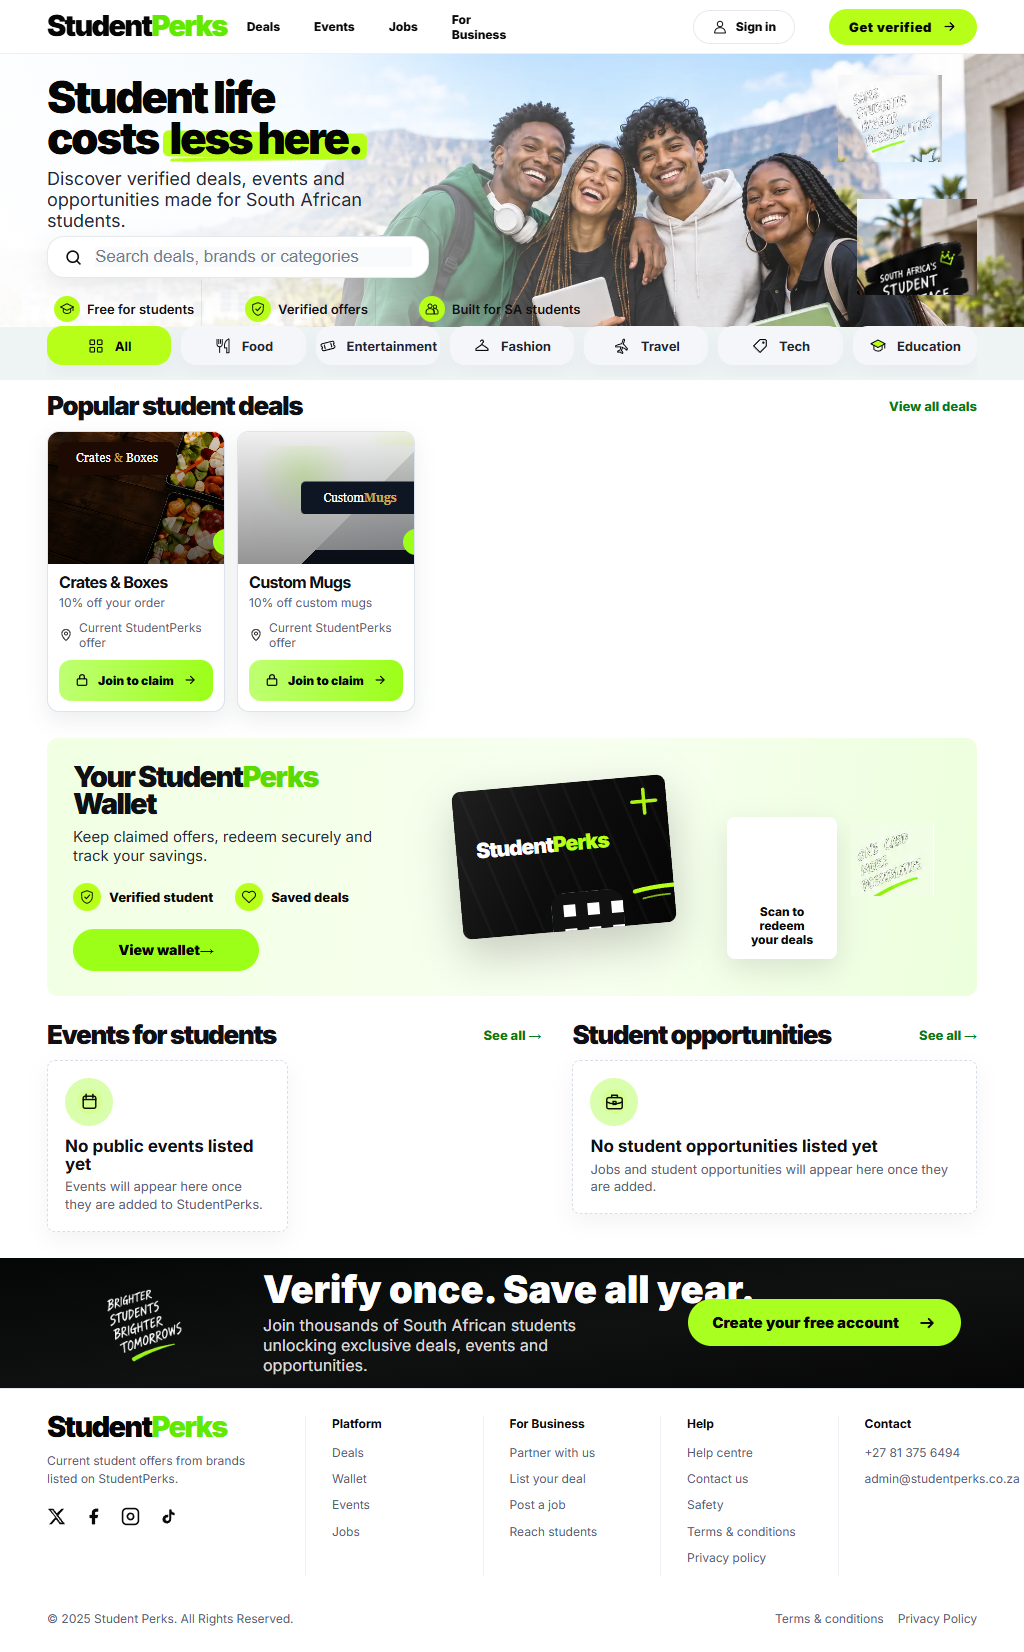
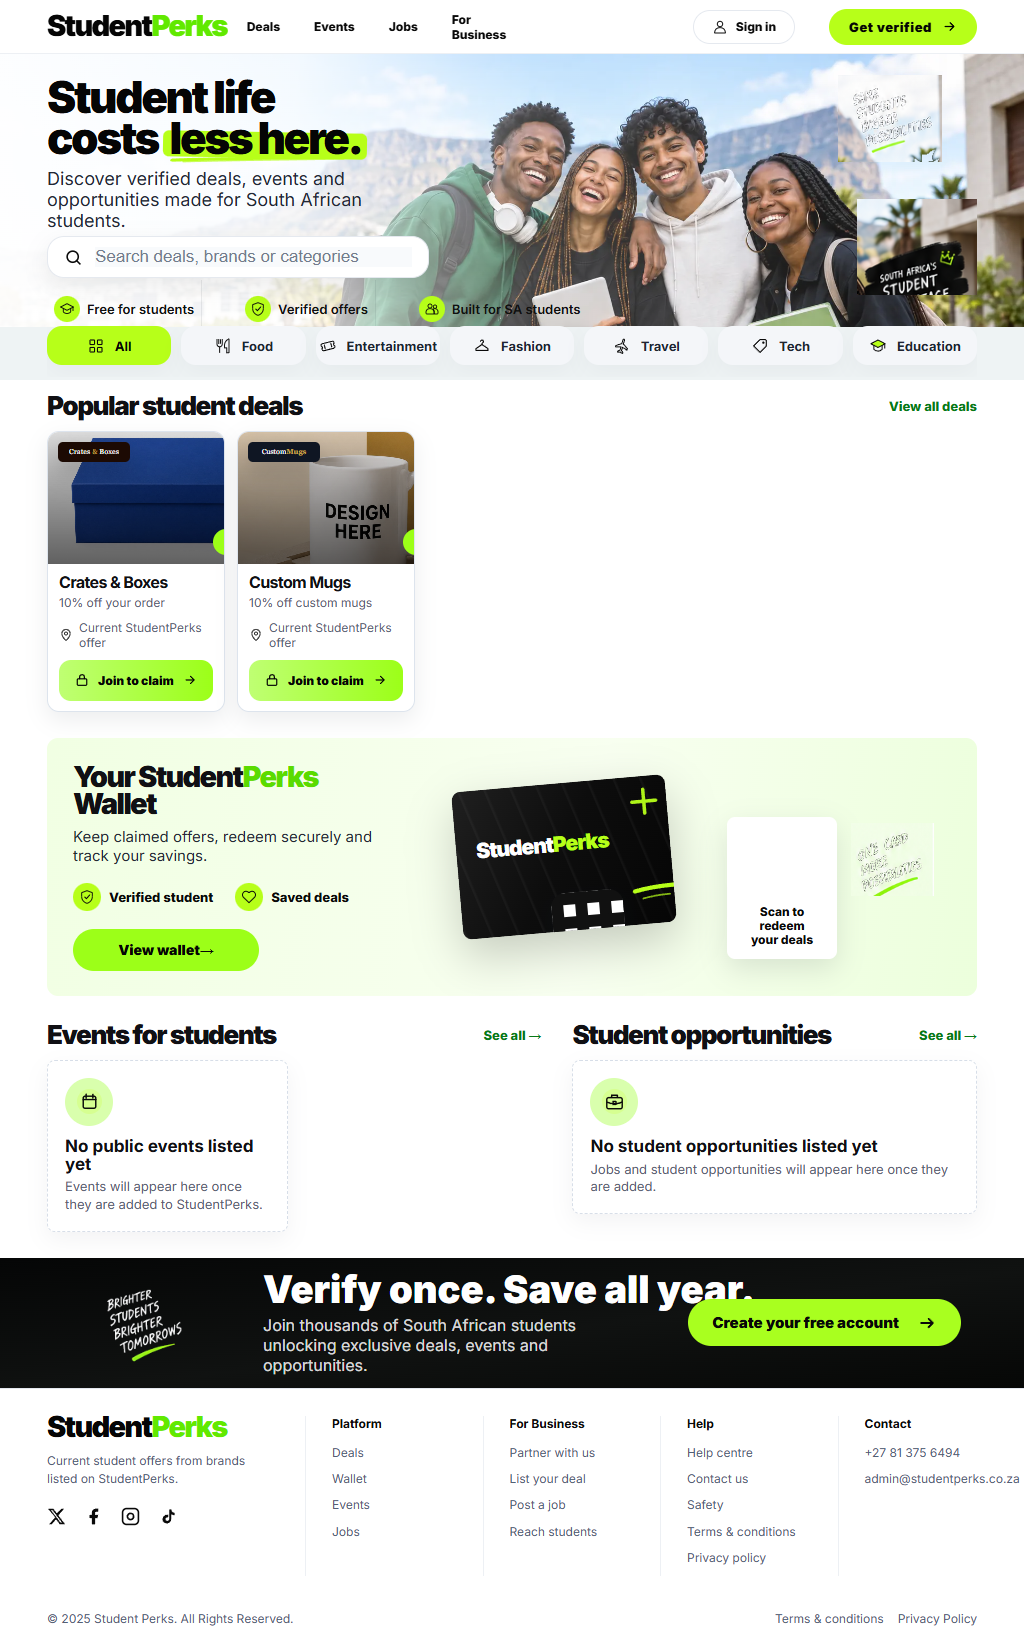
Use real partner photos on deal tiles

Changed region(s): [[0.0312, 0.247, 0.4062, 0.3396]]

diff --git a/index.html b/index.html
@@ -2747,6 +2747,97 @@ body.public-redesign .business-photo__label {
     display: inline;
   }
 }
+
+body.public-redesign .deal-image.crates {
+  background:
+    linear-gradient(180deg, rgba(0,0,0,.08), rgba(0,0,0,.34)),
+    url('assets/deals/crates-boxes-blue-box.jpg') center 58% / cover no-repeat !important;
+}
+
+body.public-redesign .deal-image.mugs {
+  background:
+    linear-gradient(180deg, rgba(0,0,0,.02), rgba(0,0,0,.36)),
+    url('assets/deals/custom-mugs-hero-mug.png') center 58% / cover no-repeat !important;
+}
+
+body.public-redesign .deal-image.mugs::before {
+  display: none !important;
+}
+
+body.public-redesign .deal-image .brand-logo-img,
+body.public-redesign .deal-image.mugs .brand-logo-img {
+  left: 10px !important;
+  top: 10px !important;
+  width: 112px !important;
+  max-width: 58% !important;
+  max-height: 50px;
+  padding: 0;
+  border-radius: 8px;
+  box-shadow: 0 10px 24px rgba(0,0,0,.22);
+  transform: none !important;
+}
+
+@media(min-width:701px){
+  body.public-redesign .deal-image .brand-logo-img,
+  body.public-redesign .deal-image.mugs .brand-logo-img {
+    width: 72px !important;
+    max-height: 42px;
+    border-radius: 5px;
+  }
+}
+
+@media(max-width:700px){
+  body.public-redesign .verify-save-section .verify-save {
+    display: grid !important;
+    grid-template: none !important;
+    grid-template-columns: minmax(0, 1fr) !important;
+    grid-auto-flow: row !important;
+    justify-items: start !important;
+    min-height: 0 !important;
+    gap: 12px !important;
+    padding: 24px 24px 26px !important;
+    overflow: hidden;
+  }
+
+  body.public-redesign .verify-save-section .verify-save__mark {
+    width: 96px !important;
+    max-width: 45%;
+    grid-area: auto !important;
+    grid-column: 1 !important;
+    grid-row: auto !important;
+  }
+
+  body.public-redesign .verify-save-section .verify-save__copy {
+    grid-area: auto !important;
+    grid-column: 1 !important;
+    grid-row: auto !important;
+    min-width: 0;
+    width: 100%;
+  }
+
+  body.public-redesign .verify-save-section .verify-save__copy h2 {
+    max-width: 260px;
+    font-size: 38px !important;
+    line-height: .9;
+    white-space: normal !important;
+  }
+
+  body.public-redesign .verify-save-section .verify-save__copy p {
+    max-width: 270px;
+    font-size: 13px !important;
+    line-height: 1.16;
+  }
+
+  body.public-redesign .verify-save-section .verify-save__button {
+    grid-area: auto !important;
+    grid-column: 1 !important;
+    grid-row: auto !important;
+    justify-self: stretch !important;
+    width: 100%;
+    min-width: 0 !important;
+    max-width: 100%;
+  }
+}
 </style>
 </head>
 <body class="public-redesign">
